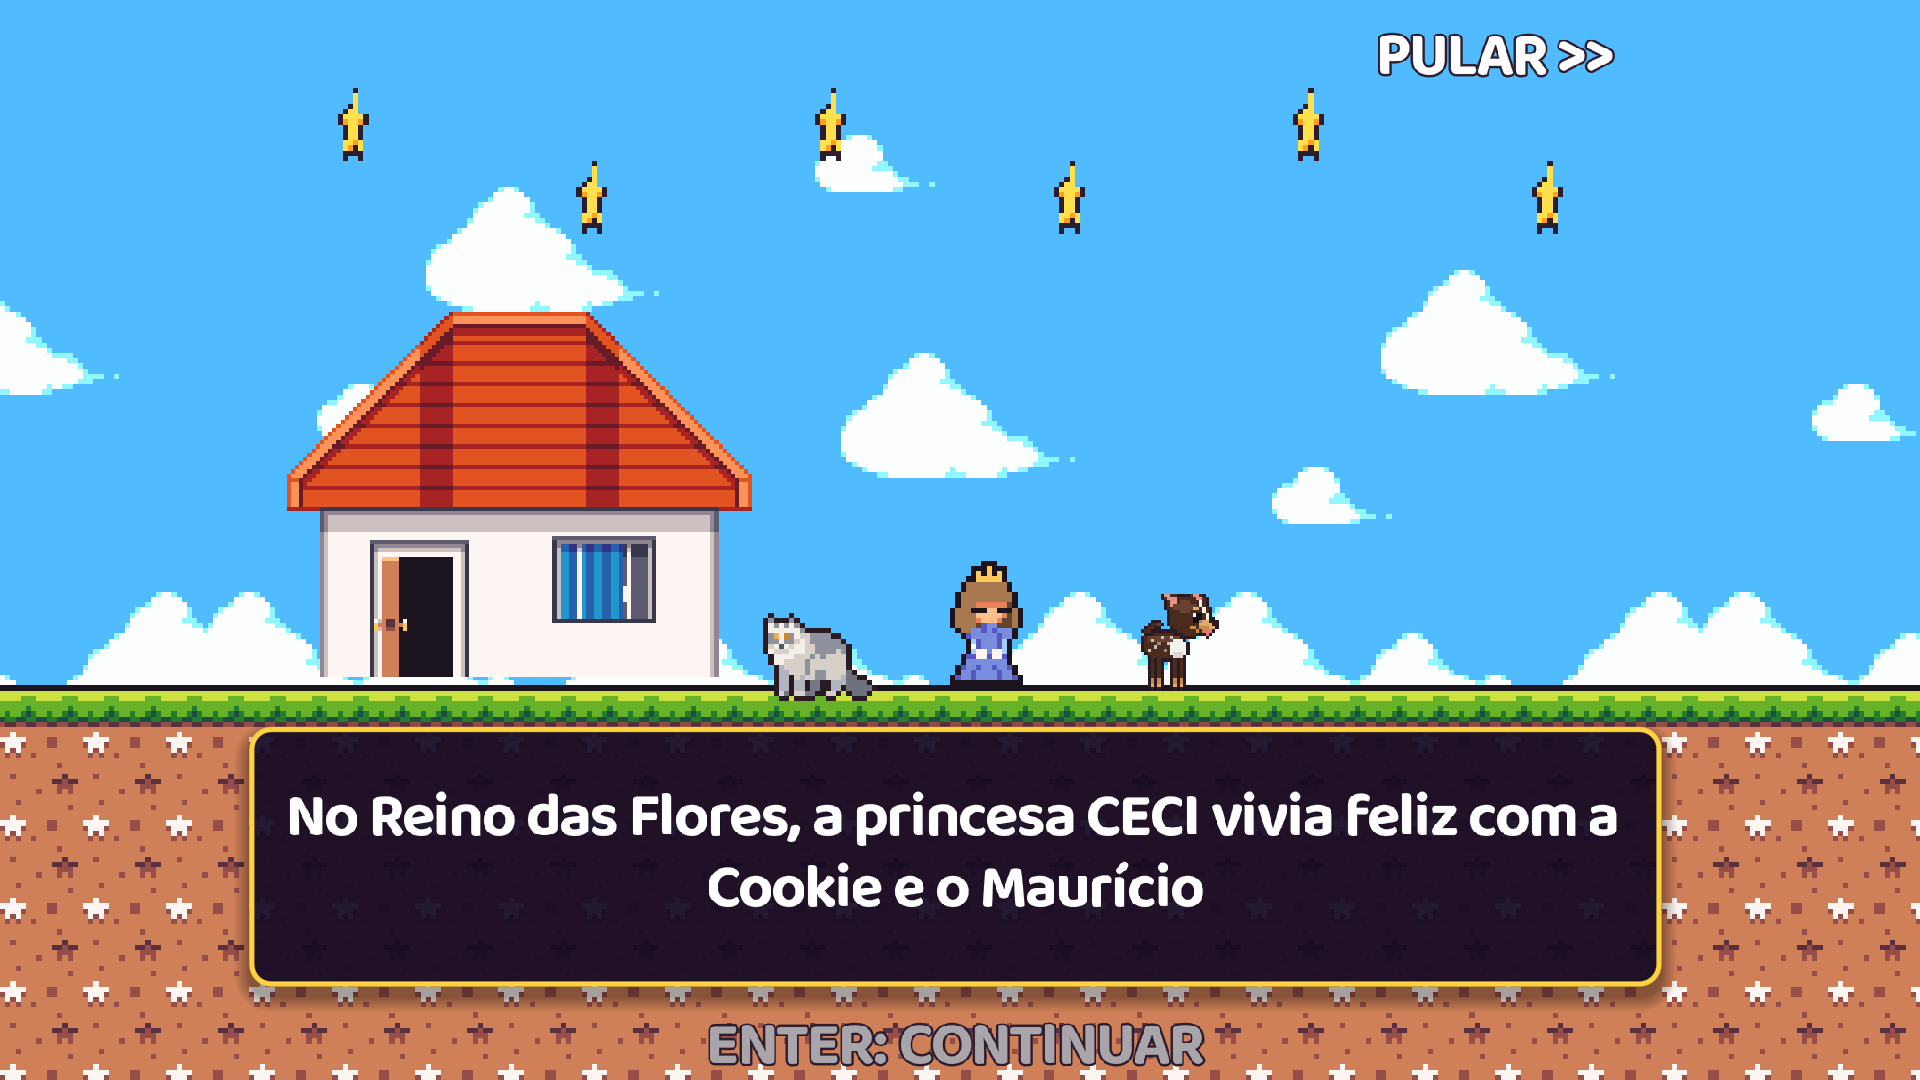
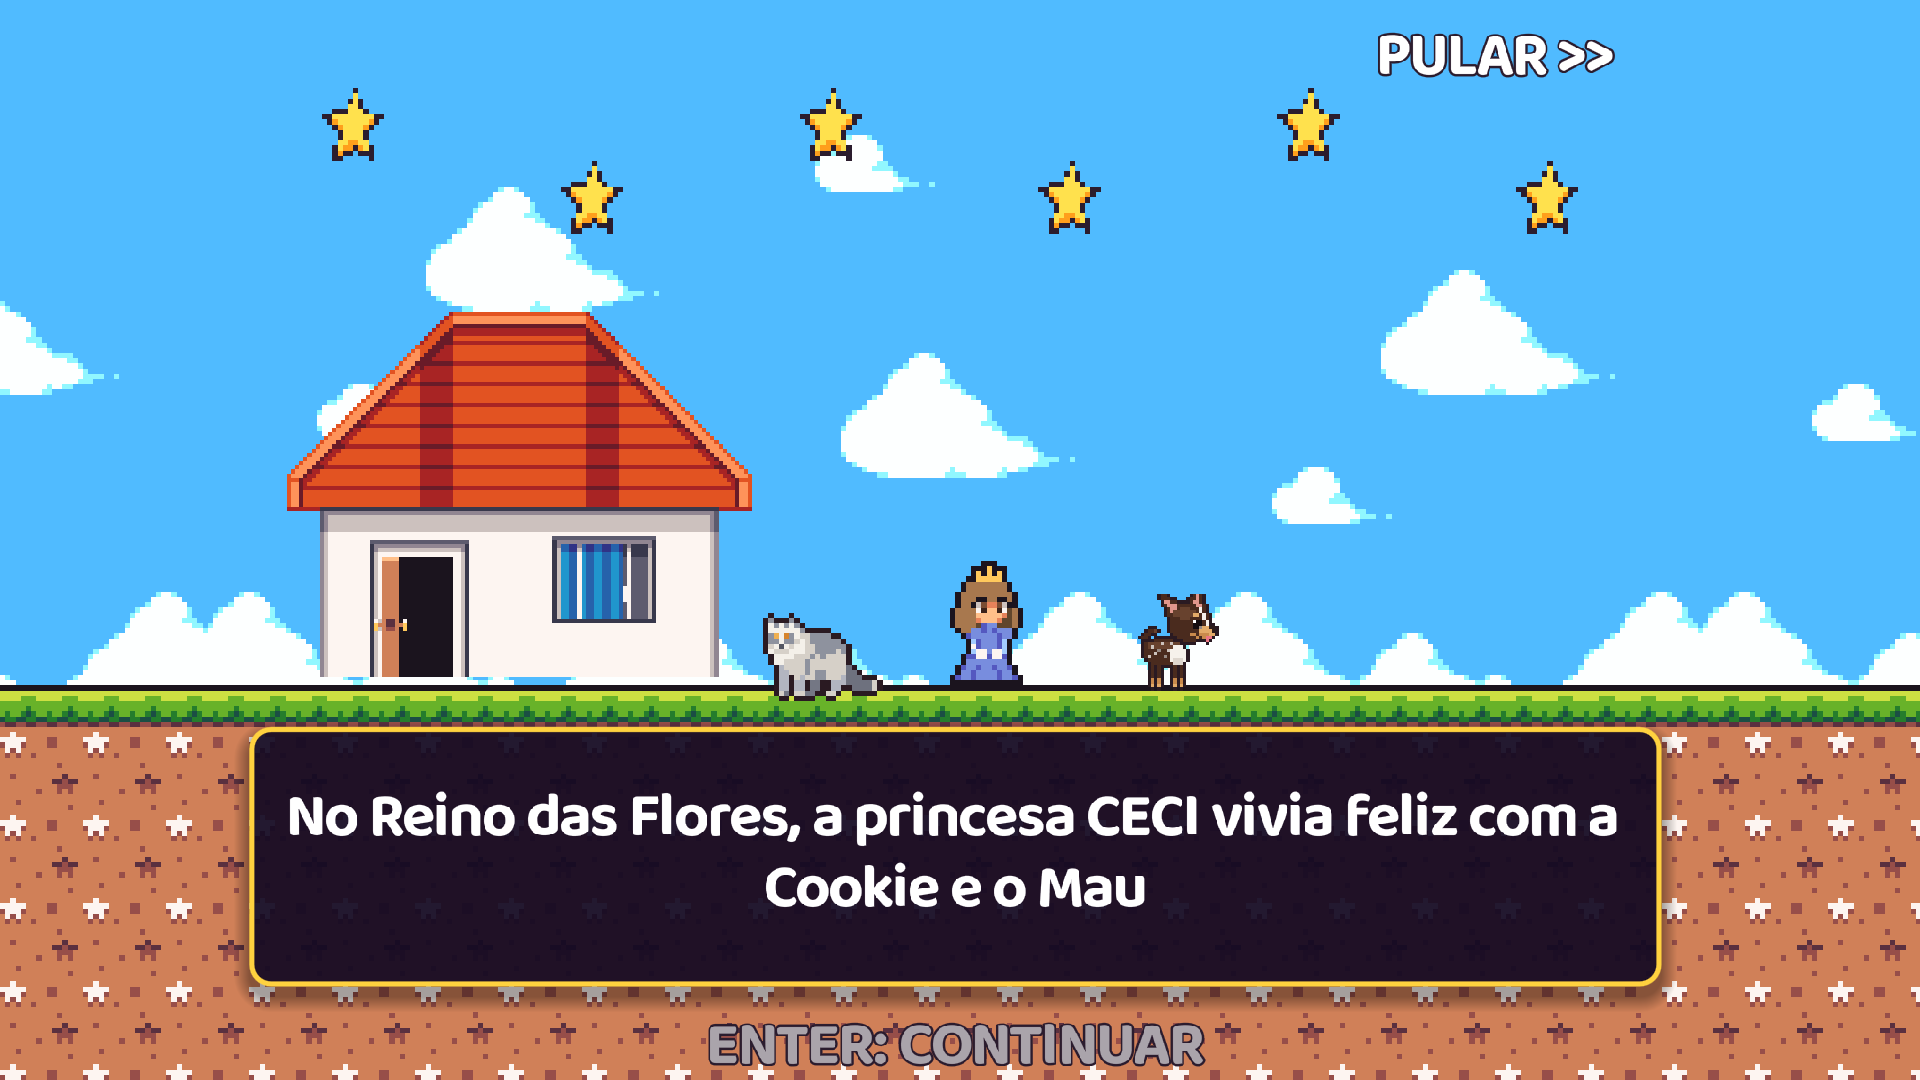
Web: versão nova sempre chega (service worker internet-primeiro, assume na hora, recarrega uma vez)
Claude-Session: https://claude.ai/code/session_01Pmfpzh9ctHkmkSSPzwewLe

diff --git a/index.service.worker.js b/index.service.worker.js
@@ -21,6 +21,7 @@ const CACHEABLE_FILES = ["index.wasm","index.pck"];
 const FULL_CACHE = CACHED_FILES.concat(CACHEABLE_FILES);
 
 self.addEventListener('install', (event) => {
+	self.skipWaiting(); // CECI_PATCH: a versão nova assume na hora
 	event.waitUntil(caches.open(CACHE_NAME).then((cache) => cache.addAll(CACHED_FILES)));
 });
 
@@ -30,7 +31,7 @@ self.addEventListener('activate', (event) => {
 			// Remove old caches.
 			return Promise.all(keys.filter((key) => key.startsWith(CACHE_PREFIX) && key !== CACHE_NAME).map((key) => caches.delete(key)));
 		}
-	).then(function () {
+	).then(() => self.clients.claim()).then(function () {
 		// Enable navigation preload if available.
 		return ('navigationPreload' in self.registration) ? self.registration.navigationPreload.enable() : Promise.resolve();
 	}));
@@ -102,24 +103,15 @@ self.addEventListener(
 		const isCacheable = FULL_CACHE.some((v) => v === local) || (base === referrer && base.endsWith(CACHED_FILES[0]));
 		if (isNavigate || isCacheable) {
 			event.respondWith((async () => {
-				// Try to use cache first
+				// CECI_PATCH: internet primeiro (sempre a versão nova); o cache só vale sem internet
 				const cache = await caches.open(CACHE_NAME);
-				if (isNavigate) {
-					// Check if we have full cache during HTML page request.
-					/** @type {Response[]} */
-					const fullCache = await Promise.all(FULL_CACHE.map((name) => cache.match(name)));
-					const missing = fullCache.some((v) => v === undefined);
-					if (missing) {
-						try {
-							// Try network if some cached file is missing (so we can display offline page in case).
-							const response = await fetchAndCache(event, cache, isCacheable);
-							return response;
-						} catch (e) {
-							// And return the hopefully always cached offline page in case of network failure.
-							console.error('Network error: ', e); // eslint-disable-line no-console
-							return caches.match(OFFLINE_URL);
-						}
+				try {
+					const response = await fetchAndCache(event, cache, isCacheable);
+					if (response && response.ok) {
+						return response;
 					}
+				} catch (e) {
+					console.warn('Offline, usando o cache: ', e); // eslint-disable-line no-console
 				}
 				let cached = await cache.match(event.request);
 				if (cached != null) {
@@ -128,9 +120,7 @@ self.addEventListener(
 					}
 					return cached;
 				}
-				// Try network if don't have it in cache.
-				const response = await fetchAndCache(event, cache, isCacheable);
-				return response;
+				return isNavigate ? caches.match(OFFLINE_URL) : Response.error();
 			})());
 		} else if (ENSURE_CROSSORIGIN_ISOLATION_HEADERS) {
 			event.respondWith((async () => {

diff --git a/index.html b/index.html
@@ -52,6 +52,12 @@ body { background: #140a20; color: #fff; overflow: hidden; touch-action: none; }
 <link rel="apple-touch-icon" href="index.apple-touch-icon.png"/>
 <link rel="manifest" href="index.manifest.json">
 <style>body{background:#140a20}</style><script>window.addEventListener('beforeinstallprompt',function(e){e.preventDefault();window.ceciInstall=e;});</script>
+<script>/* CECI_PATCH: quando a versão nova do jogo assume, recarrega uma vez */
+if ('serviceWorker' in navigator && navigator.serviceWorker.controller) {
+  let reloaded = false;
+  navigator.serviceWorker.addEventListener('controllerchange', () => { if (!reloaded) { reloaded = true; location.reload(); } });
+}
+</script>
 </head>
 <body>
 <canvas id="canvas">Seu navegador não mostra este jogo.</canvas>
